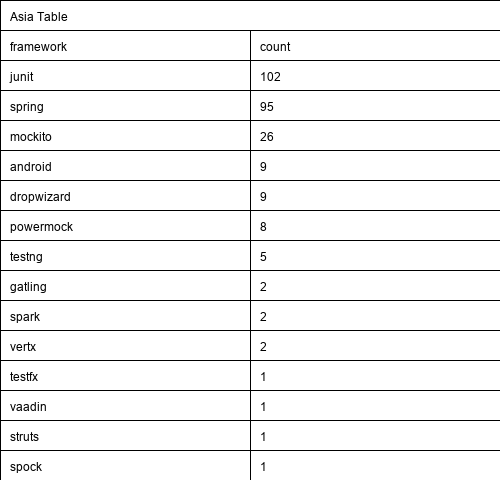
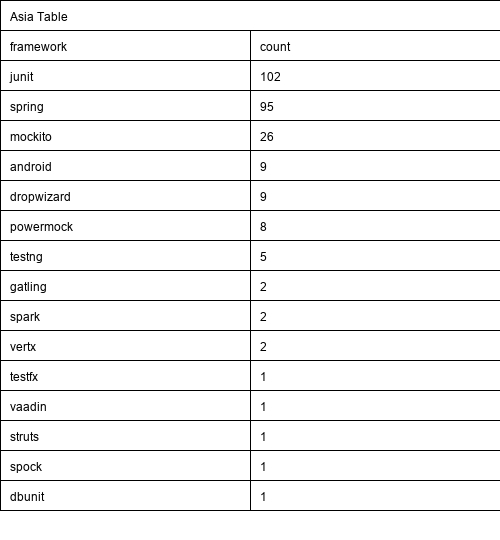
rq2

Changed region(s): [[0.0, 0.0, 1.0, 1.0]]

diff --git a/proportion_analysis.py b/proportion_analysis.py
@@ -1,0 +1,87 @@
+
+from collections import defaultdict
+import json
+from itertools import groupby
+import os
+
+continents = ["North America", "South America", "Asia", "Africa","Oceania","Europe","Antarctica"]
+stackoverflow_proportion= []
+github_proportion= []
+
+def calculate_framework_proportion_github():
+        with open('framework_count_with_country.json') as file:
+            continent_framework_count_github = json.loads(file.read())   
+            sorted_data_github = sorted(continent_framework_count_github, key=lambda x: (x['framework'], -x['count']))
+
+            grouped_data_github = {framework: [{'co': cn['continent'], 'count': cn['count']} for cn in continents] 
+                for framework, continents in groupby(sorted_data_github, key=lambda x: x['framework'])}
+
+            
+            
+            with open('top_distinct_frameworks_of_github.json', 'r') as jsonfile:
+                top_frameworks = json.loads(jsonfile.read())
+                directory_path = os.path.join(os.getcwd(), 'so_continents')
+                if not os.path.exists(directory_path):
+                    print('directory does not exist')
+                else:
+                    for framework in top_frameworks:
+                        so_proportion_dictionary_list = []
+                        github_proportion_dictionary_list = []
+                        filepath = os.path.join(directory_path, f'so_with_continent_result_{framework}.json')
+                        if os.path.isfile(filepath):
+                            with open(filepath, 'r') as so_file:
+                                so_file = json.loads(so_file.read())
+                                print(so_file)
+                                total_count = sum(item['count'] for item in so_file)
+                                for continent in continents:
+                                    for data in so_file:
+                                        if data['continent'] == continent:
+                                            count = data['count']
+                                            proportion = (count / total_count) * 100
+                                            so_proportion_dictionary = {'continent': continent, 'proportion': proportion}
+                                            so_proportion_dictionary_list.append(so_proportion_dictionary)
+                        so_proportion_dictionary_list = sorted(so_proportion_dictionary_list, key=lambda x: x['proportion'], reverse=True)
+                        stackoverflow_proportion.append({f'{framework}':so_proportion_dictionary_list })        
+                        for key, value in grouped_data_github.items():
+                            if key == framework:
+                                github_continent_count_list = value
+                                print(github_continent_count_list)
+                                total_count_github = sum(item['count'] for item in github_continent_count_list)
+                                for continent in continents:
+                                    for github_data in github_continent_count_list:
+                                        if github_data['co'] == continent:
+                                            count = github_data['count']
+                                            proportion = (count / total_count_github) * 100
+                                            github_proportion_dictionary = {'continent': continent, 'proportion': proportion}
+                                            github_proportion_dictionary_list.append(github_proportion_dictionary)
+                        github_proportion_dictionary_list = sorted(github_proportion_dictionary_list, key=lambda x: x['proportion'], reverse=True)
+                        github_proportion.append({f'{framework}':github_proportion_dictionary_list })
+                    for github_lists in  github_proportion:
+                        for so_lists in stackoverflow_proportion:
+                            for key, value in github_lists.items():
+                                for framework , data in so_lists.items():
+                                    if key == framework:
+                                        print(f'framework--{framework}')
+                                        so_highest_data = data[0]
+                                        so_highest_continent = so_highest_data['continent']
+                                        so_highest_prop = so_highest_data['proportion']
+                                        print(f'In stackoverflow {so_highest_continent} has the highest proportion -- {so_highest_prop} % ')
+                                        github_highest_data = value[0]
+                                        github_highest_continent = github_highest_data['continent']
+                                        github_highest_prop = github_highest_data['proportion']
+                                        print(f'In github {github_highest_continent} has the highest proportion -- {github_highest_prop} % ')
+            
+                                        for values in value:
+                                            for datas in data:
+                                                
+                                                if values['continent'] == datas['continent']:
+                                                    continent = values['continent']
+                                                    so_value = datas['proportion']
+                                                    github_value = values['proportion']
+                                                    print(f'continent - {continent}')
+                                                    print(f'SO percentage ----> {so_value}') 
+                                                    print(f'Github percentage---> {github_value}')
+              
+if __name__ == "__main__":
+    calculate_framework_proportion_github()
+

diff --git a/finding_frameworks_github.py b/finding_frameworks_github.py
@@ -94,8 +94,12 @@ def getContinentWithFramework():
                 
     print(continent_not_extracted)
 
-    with open('framework_count_with_country.json', 'w') as file:
-            json.dump(continents_with_framework_count,file)
+    #with open('framework_count_with_country.json', 'w') as file:
+            #json.dump(continents_with_framework_count,file)
+     with open('location_not_extracted.json', 'w') as file:
+            json.dump(continent_not_extracted,file)
+
+
 
 def plot_three_popular_fw_graph(data):
     df = pd.DataFrame(data)
@@ -105,12 +109,17 @@ def plot_three_popular_fw_graph(data):
     os.makedirs(directory, exist_ok=True)
 
     top_frameworks = grouped.groupby('continent').apply(lambda x: x.nlargest(3, 'count')).reset_index(drop=True)
-
+    print(top_frameworks)
+    distinct_framework = set()
+    
     top_frameworks_dict = {}
     for _, row in top_frameworks.iterrows():
         continent = row['continent']
         framework = row['framework']
         count = row['count']
+        distinct_framework.add(framework)
+        print(distinct_framework)
+    
     
         if continent not in top_frameworks_dict:
             top_frameworks_dict[continent] = []
@@ -132,7 +141,11 @@ def plot_three_popular_fw_graph(data):
 
     plt.title('Top 3 Frameworks of All Continents')
     plt.savefig(os.path.join(directory,'top_three_frameworks.png'), bbox_inches='tight')
-    plt.show()
+    distinct_framework_list = list(distinct_framework)
+
+    with open('top_distinct_frameworks_of_github.json', 'w') as file:
+            json.dump(distinct_framework_list,file)
+    
 
 def create_table(grouped_data, merged_data):
     font_size = 12
@@ -145,12 +158,11 @@ def create_table(grouped_data, merged_data):
     os.makedirs(directory, exist_ok=True)
 
     for continent, continent_data in grouped_data.items():
-        print(continent_data)
-
+    
         merged_data = pd.DataFrame(continent_data)
                 
         table_width = 2 * cell_width
-        table_height = min((len(merged_data) + 1) * cell_height, 5000) 
+        table_height = min((len(merged_data) + 3) * cell_height, 5000) 
 
         img = Image.new('RGB', (table_width, table_height), color='white')
         draw = ImageDraw.Draw(img)
@@ -188,6 +200,8 @@ def cluster_into_continents():
             merged_data = pd.DataFrame([(key, fw['framework'], fw['count']) for key, value in grouped_data.items() for fw in value],
                             columns=['Continent', 'Framework', 'Count'])
             print(merged_data)
+            
+            create_table(grouped_data,merged_data)
 
             plot_three_popular_fw_graph(sorted_data)
             
@@ -287,8 +301,8 @@ def list_folders(directory):
 
 
 if __name__ == "__main__":
-    list_folders(os.path.join(os.getcwd(),'repositories'))
-    getContinentWithFramework()
-    cluster_into_continents()
+    #list_folders(os.path.join(os.getcwd(),'repositories'))
+    #getContinentWithFramework()
+    #cluster_into_continents()
 
 

diff --git a/so_test.py b/so_test.py
@@ -1,0 +1,44 @@
+import pandas as pd
+import matplotlib.pyplot as plt
+
+# Sample data for framework usage in continents
+framework_usage_data = {
+    'Continent': ['Africa', 'Asia', 'Europe', 'North America', 'Oceania', 'South America'],
+    'Framework_1': [20, 50, 45, 60, 15, 5],  # Replace with actual framework usage data
+    'Framework_2': [15, 40, 35, 50, 10, 3],  # Replace with actual framework usage data
+    'Framework_3': [10, 30, 25, 40, 5, 2]  # Replace with actual framework usage data
+}
+
+# Sample data for Stack Overflow activity in continents
+stackoverflow_activity_data = {
+    'Continent': ['Africa', 'Asia', 'Europe', 'North America', 'Oceania', 'South America'],
+    'Framework_1_SO': [200, 600, 550, 700, 150, 50],  # Replace with actual SO activity data
+    'Framework_2_SO': [150, 500, 450, 600, 100, 30],  # Replace with actual SO activity data
+    'Framework_3_SO': [100, 300, 250, 400, 50, 20]  # Replace with actual SO activity data
+}
+
+# Convert the data to DataFrames
+framework_df = pd.DataFrame(framework_usage_data)
+stackoverflow_df = pd.DataFrame(stackoverflow_activity_data)
+
+# Normalize the data to calculate proportions
+normalized_framework_df = framework_df.set_index('Continent').div(framework_df.set_index('Continent').sum(axis=1), axis=0)
+normalized_stackoverflow_df = stackoverflow_df.set_index('Continent').div(stackoverflow_df.set_index('Continent').sum(axis=1), axis=0)
+
+# Plotting the comparison
+fig, axs = plt.subplots(2, 3, figsize=(15, 10))
+
+for i, col in enumerate(normalized_framework_df.columns):
+    axs[0, i].bar(normalized_framework_df.index, normalized_framework_df[col], alpha=0.7, label=f'Framework {i+1} Usage')
+    axs[0, i].set_title(f'Proportional Framework {i+1} Usage')
+
+for i, col in enumerate(normalized_stackoverflow_df.columns):
+    axs[1, i].bar(normalized_stackoverflow_df.index, normalized_stackoverflow_df[col], alpha=0.7, color='orange', label=f'Framework {i+1} SO Activity')
+    axs[1, i].set_title(f'Proportional Framework {i+1} SO Activity')
+
+for ax in axs.flat:
+    ax.set_xticklabels(ax.get_xticklabels(), rotation=45, ha='right')
+    ax.legend()
+
+plt.tight_layout()
+plt.show()

diff --git a/stackoverflow_analysis.py b/stackoverflow_analysis.py
@@ -19,7 +19,8 @@ continent_not_extracted = []
    
 def stackoverflow_questions_location(directory_path):
     for filename in os.listdir(directory_path):
-        if filename.endswith('.csv'):
+        if filename.startswith('android.csv'):
+
             file_path = os.path.join(directory_path, filename)
             key, ext = os.path.splitext(filename)
             with open(file_path, encoding='utf-8') as csvfile:
